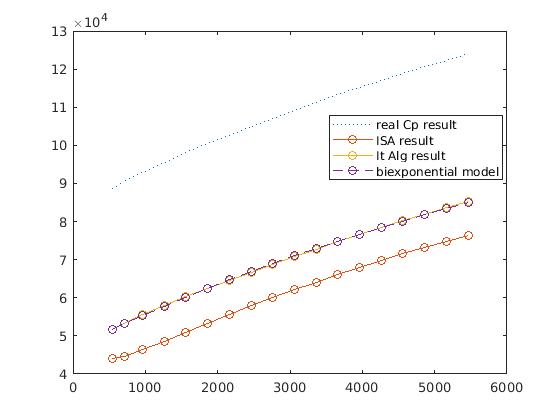
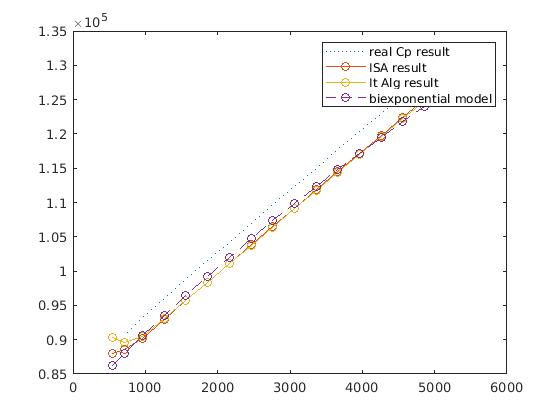
Redid ISA to see where the 'tail' that usually comes from ISA comes from. Now ISA generates a smaller tail, but ItAlg enlargens itgit push

diff --git a/IterativeAlgo/ISA.m b/IterativeAlgo/ISA.m
@@ -1,46 +1,68 @@
 function bestCpInt = ISA(TAC, TACint)
 %ISA Performs the Intersectional Search Algorithm described in NIHMS
 %   Finds the intersection of two planes to estimate Cp.
-    n = size(TAC, 2);
-    k = 1; %counter
-    Cpint = zeros(size(TAC, 1), size(TAC, 2), size(TAC, 2));
-    dim = n*(n-1)/2;
-    Cpintlist = zeros(18,dim); %same thing with Cpint but in 2-dim
-    %va = zeros(4,dim);      %the [a1i,a2i,a1j,a2j] in Fields
-
-    for i = 1:n
-        cti = TAC(:,i);
-        intcti = TACint(:, i);
-
-        %cpi = pdata(:,2);
-        %cpi = cumtrapz(pdata(:,1),pdata(:,2));
-        for j = i + 1:n
-            ctj = TAC(:, j);
-            intctj = TACint(:, j);
-            % find the right singular vector va corresponding to smallest
-            % right singular value of c4
-            c4 = [cti, intcti, -ctj, -intctj];
-            [~, ~, V] = svd(c4);
-            %va(:,k) = V(:,end);
-
-            %evaluate the first guesses of Cpint
-            Cpint(:,i,j) = abs(V(1,end))*cti +abs(V(2,end))*intcti;
-            Cpintlist(:,k) = Cpint(:,i,j);
-            k = k+1;
+    CpInts = [];
+    for ii = 1:size(TAC, 2)
+        for jj = 1:ii - 1
+            concat = [TAC(:, ii) TACint(:, ii) -TAC(:, jj) -TACint(:, jj)];
+            [~, ~, V] = svd(concat);
+            CpInts = [CpInts abs(concat(:, 1:2) * V(1:2, end)) ...
+                abs(-concat(:, 3:4) * V(3:4, end))];
         end
     end
-
-    %find one cpint which minimize the summation of distances
-    dist = zeros(1,dim);
-
-    for l = 1:dim
-        for m = 1:dim
-            disttemp = norm(Cpintlist(:,l)-Cpintlist(:,m));
-            dist(l) = dist(l) + disttemp;
-        end
+    
+    % Now choose CpInt that is closest to all others.
+    differences = zeros(size(CpInts, 2), 1);
+    for ii = 1:size(CpInts, 2)
+        differences(ii) = norm(CpInts - CpInts(:, ii), 'fro');
     end
-
-    [~, minl] = min(dist);
-    bestCpInt = Cpintlist(:,minl);
+    [~, minInd] = min(differences); % all positives!
+    bestCpInt = CpInts(:, minInd);
+        
+    
+    
+    
+    
+%     n = size(TAC, 2);
+%     k = 1; %counter
+%     Cpint = zeros(size(TAC, 1), size(TAC, 2), size(TAC, 2));
+%     dim = n*(n-1)/2;
+%     Cpintlist = zeros(18,dim); %same thing with Cpint but in 2-dim
+%     %va = zeros(4,dim);      %the [a1i,a2i,a1j,a2j] in Fields
+% 
+%     for i = 1:n
+%         cti = TAC(:,i);
+%         intcti = TACint(:, i);
+% 
+%         %cpi = pdata(:,2);
+%         %cpi = cumtrapz(pdata(:,1),pdata(:,2));
+%         for j = i + 1:n
+%             ctj = TAC(:, j);
+%             intctj = TACint(:, j);
+%             % find the right singular vector va corresponding to smallest
+%             % right singular value of c4
+%             c4 = [cti, intcti, -ctj, -intctj];
+%             [~, ~, V] = svd(c4);
+%             %va(:,k) = V(:,end);
+% 
+%             %evaluate the first guesses of Cpint
+%             Cpint(:,i,j) = abs(V(1,end))*cti +abs(V(2,end))*intcti;
+%             Cpintlist(:,k) = Cpint(:,i,j);
+%             k = k+1;
+%         end
+%     end
+% 
+%     %find one cpint which minimize the summation of distances
+%     dist = zeros(1,dim);
+% 
+%     for l = 1:dim
+%         for m = 1:dim
+%             disttemp = norm(Cpintlist(:,l)-Cpintlist(:,m));
+%             dist(l) = dist(l) + disttemp;
+%         end
+%     end
+% 
+%     [~, minl] = min(dist);
+%     bestCpInt = Cpintlist(:,minl);
 end
 

diff --git a/IterativeAlgo/massTest.m b/IterativeAlgo/massTest.m
@@ -18,11 +18,12 @@ for sigmaInd = 1:length(sigmas)
         num2str(sigma) 'sigma.tac'];
     CpPath = ['/home/qtupker/Documents/Fields Project 11/workspace4/' ...
         'Square3EinputFunction/Cps/pabloModel_' num2str(sigma) 'sigma.smpl'];
-    Vts(:, 1, sigmaInd, 1) = nihms(TACPath, CpPath, false, false);
+    Vts(:, 1, sigmaInd, 1) = nihms(TACPath, CpPath, true, false);
     toc;
 end
 
 Vts = permute(Vts, [1 3 2 4]);
+Vts = Vts(:, :, 1, 1);
     
     
 
